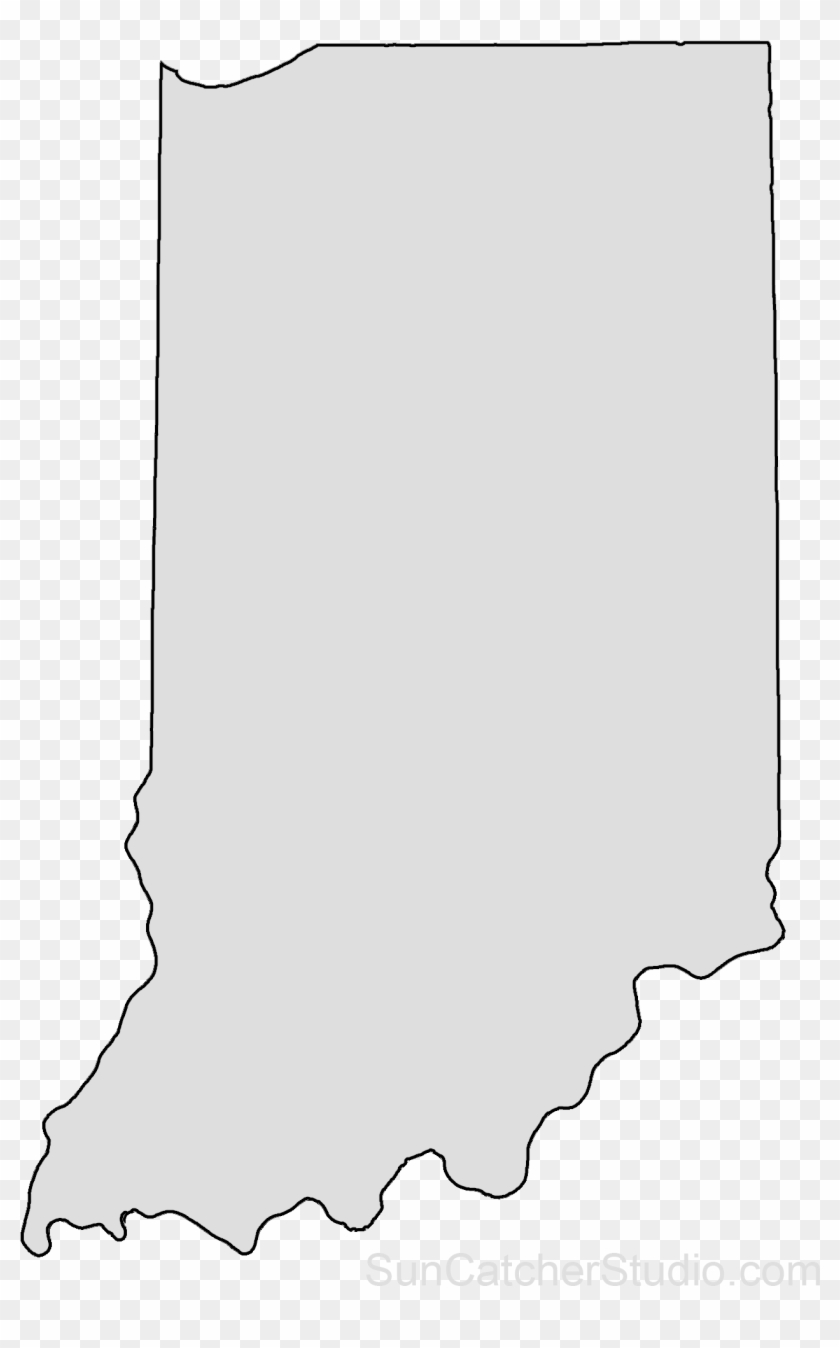
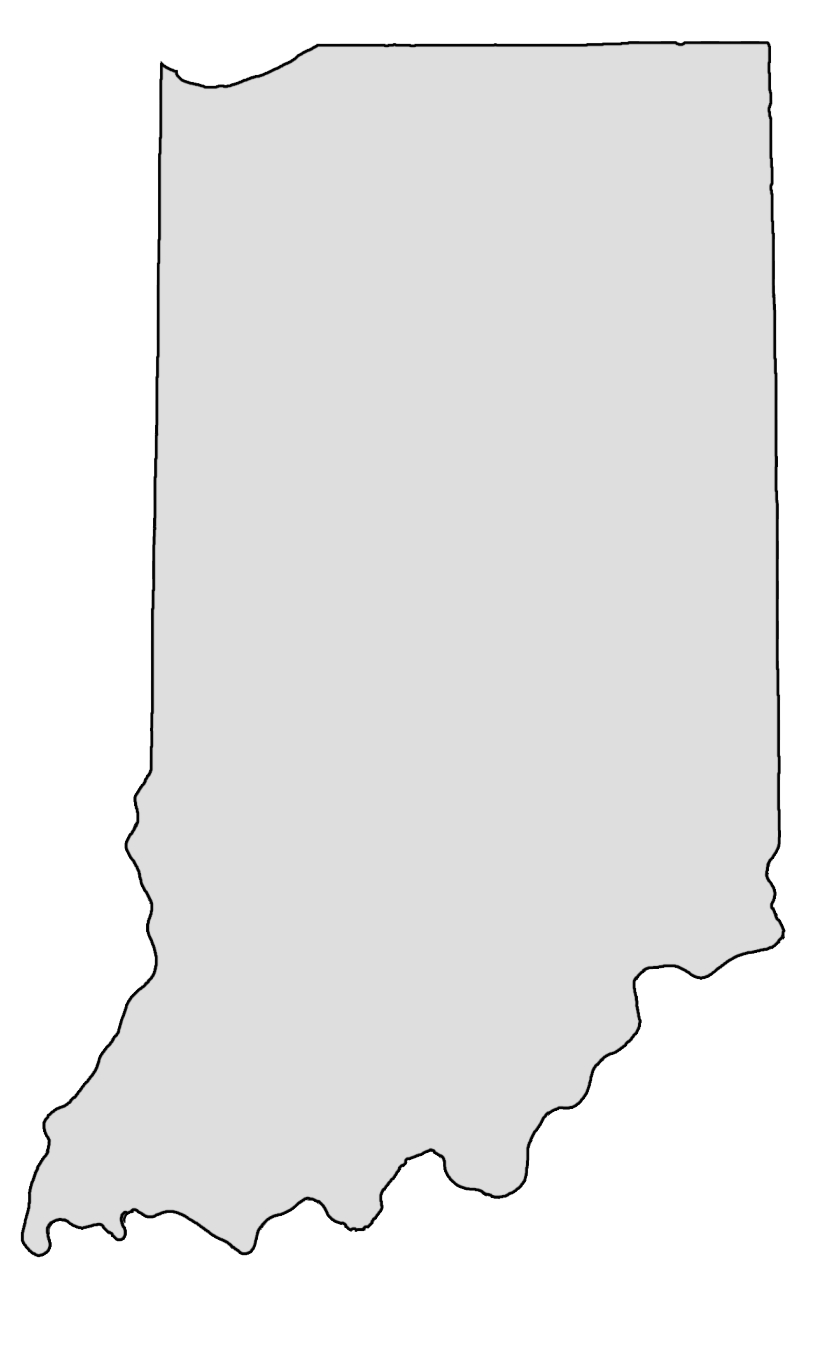
Draw Indiana and scale it

Changed region(s): [[0.4333, 0.9036, 0.9905, 0.9659]]

diff --git a/src/NavigationFrame.java b/src/NavigationFrame.java
@@ -1,7 +1,16 @@
+import java.awt.BorderLayout;
+import java.awt.Color;
 import java.awt.Dimension;
 import java.awt.Graphics;
 import java.awt.Graphics2D;
+import java.awt.Rectangle;
+import java.awt.Toolkit;
+import java.awt.image.BufferedImage;
+import java.io.File;
+import java.io.IOException;
+import javax.imageio.ImageIO;
 import javax.swing.JFrame;
+import javax.swing.JPanel;
 
 /**
  * This class implements the GUI for the navigation of the graph and handles the listeners
@@ -10,21 +19,38 @@ import javax.swing.JFrame;
  *
  */
 public class NavigationFrame extends JFrame {
-	Graph<String> graph;
+	private Graph<String> graph;
+	private BufferedImage indiana;
+	private Dimension screenSize;
 
 	/**
 	 * Auto Generated serialVersionUID
 	 */
 	private static final long serialVersionUID = 1185712731956834898L;
 
-	public NavigationFrame() {
-		this.setMinimumSize(new Dimension(1500, 800));
+	public NavigationFrame() throws IOException {
+		screenSize = Toolkit.getDefaultToolkit().getScreenSize();
+		this.setMinimumSize(screenSize);
+		indiana = ImageIO.read(new File("pics/indiana.png"));
+		
+		JPanel infoPanel = new JPanel();
+		infoPanel.setBackground(Color.darkGray);
+		this.add(infoPanel,BorderLayout.EAST);
 	}
 	
 	@Override
 	public void paint(Graphics g) {
 		Graphics2D g2d = (Graphics2D) g;
 		//This is where we draw all the images for the nodes and draw all the edges if they are visible
+		
+		//Color the background gray
+		g2d.setColor(Color.GRAY);
+		g2d.fill(new Rectangle((int)screenSize.getWidth()+20,(int)screenSize.getHeight()+20));
+		
+		//Scale the image of Indiana to the window size and draw it
+		g2d.drawImage(indiana, 0, 20, 
+				(int) ((screenSize.getHeight()/indiana.getHeight())*indiana.getWidth()), 
+				(int) (screenSize.getHeight()), null);
 	}
 	
 	@Override

diff --git a/src/Main.java b/src/Main.java
@@ -1,3 +1,6 @@
+import java.awt.Color;
+import java.io.IOException;
+
 import javax.swing.JFrame;
 
 /**
@@ -12,7 +15,7 @@ public class Main
 {
 	private JFrame frame;
 
-	Main()
+	Main() throws IOException
 	{
 		frame = new NavigationFrame();
 		frame.setTitle("College Navigator");
@@ -21,7 +24,7 @@ public class Main
 		frame.setVisible(true);
 	}
 
-	public static void main(String[] args)
+	public static void main(String[] args) throws IOException
 	{
 		new Main();
 	}

diff --git a/src/Graph.java b/src/Graph.java
@@ -45,7 +45,6 @@ public class Graph<T> {
 			int y = this.y - otherCollege.y;
 			return (int)Math.sqrt(x*x - y*y);
 		}
-	
 	}
 	
 	/**
